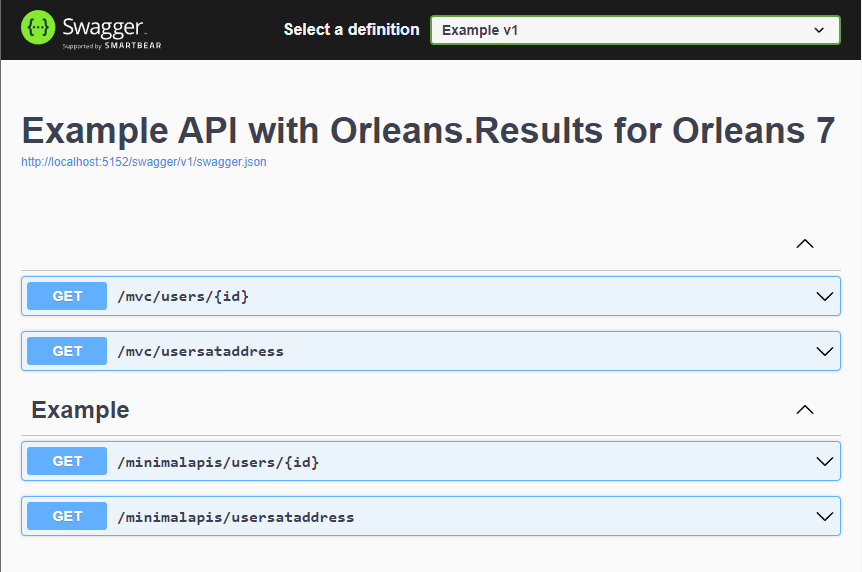
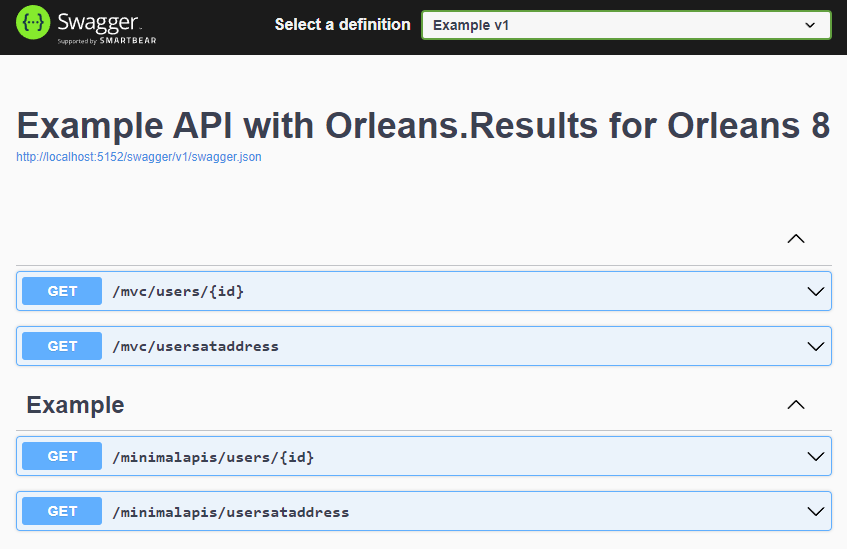
Update tests and texts to Orleans 8, .NET 8 and C# 12

diff --git a/src/Tests/Orleans.Results/Example.cs b/src/Tests/Orleans.Results/Example.cs
@@ -1,4 +1,5 @@
 using System.Collections.Immutable;
+using System.Collections.ObjectModel;
 using System.Text.RegularExpressions;
 using Orleans.Runtime;
 
@@ -11,12 +12,8 @@ public interface ITenant : IGrainWithStringKey
     Task<Result<ImmutableArray<int>>> GetUsersAtAddress(string zip, string nr);
 }
 
-public partial class Tenant : Grain, ITenant
+public partial class Tenant([PersistentState("state")] IPersistentState<Tenant.State> state) : Grain, ITenant
 {
-    readonly IPersistentState<State> state;
-
-    public Tenant([PersistentState("state")] IPersistentState<State> state) => this.state = state;
-
     State S => state.State;
 
     public Task<Result<string>> GetUser(int id) => Task.FromResult<Result<string>>(
@@ -33,23 +30,23 @@ public partial class Tenant : Grain, ITenant
 
     public async Task<Result<ImmutableArray<int>>> GetUsersAtAddress(string zip, string nr)
     {
-        List<Result.Error> errors = new ();
+        Collection<Result.Error> errors = [];
 
         // First check for validation errors - don't perform the operation if there are any.
         if (!ZipCodeRegex().IsMatch(zip)) errors.Add(Errors.InvalidZipCode(zip));
         if (!HouseNrRegex().IsMatch(nr)) errors.Add(Errors.InvalidHouseNr(nr));
-        if (errors.Any()) return errors;
+        if (errors.Count != 0) return errors;
 
         // If there are no validation errors, perform the operation - this may return non-validation errors
         await Task.CompletedTask; // Simulate an operation
         if (!(int.TryParse(nr, out int number) && number % 2 == 1)) errors.Add(Errors.NoUsersAtAddress($"{zip} {nr}"));
-        return errors.Any() ? errors : ImmutableArray.Create(0);
+        return errors.Count != 0 ? errors : ImmutableArray.Create(0);
     }
 
     [GenerateSerializer]
     public class State
     {
-        [Id(0)] public List<string> Users { get; set; } = new(new[] { "John", "Vincent" });
+        [Id(0)] public Collection<string> Users { get; } = new(["John", "Vincent"]);
     }
 
     [GeneratedRegex("^\\d\\d\\d\\d[A-Z]{2}$")]

diff --git a/src/Tests/UnitTests/ResultWithValueTests.cs b/src/Tests/UnitTests/ResultWithValueTests.cs
@@ -1,14 +1,13 @@
 using System.Collections.Immutable;
+using System.Collections.ObjectModel;
 using Example;
 
 namespace Orleans.Results.Tests.UnitTests;
 
 [Collection(TestCluster.Name)]
-public class ResultWithValueTests
+public class ResultWithValueTests(ClusterFixture fixture)
 {
-    readonly TestingHost.TestCluster cluster;
-
-    public ResultWithValueTests(ClusterFixture fixture) => cluster = fixture.Cluster;
+    readonly TestingHost.TestCluster cluster = fixture.Cluster;
 
     ITenant Tenant => cluster.GrainFactory.GetGrain<ITenant>("");
 
@@ -176,7 +175,7 @@ public class ResultWithValueTests
         var error2 = error1 with { Nr = ErrorNr.NoUsersAtAddress, Message = "Error message 2" };
         // With is used to get coverage of the generated set_Code and set_Message
 
-        List<Result.Error> errors = new(new Result.Error[] { error1, error2 });
+        Collection<Result.Error> errors = new([error1, error2]);
         Result<bool> result = errors;
 
         Assert.Equal(errors, result.Errors);

diff --git a/src/Tests/UnitTests/ResultWithoutValueTests.cs b/src/Tests/UnitTests/ResultWithoutValueTests.cs
@@ -1,14 +1,13 @@
 using System.Collections.Immutable;
+using System.Collections.ObjectModel;
 using Example;
 
 namespace Orleans.Results.Tests.UnitTests;
 
 [Collection(TestCluster.Name)]
-public class ResultWithoutValueTests
+public class ResultWithoutValueTests(ClusterFixture fixture)
 {
-    readonly TestingHost.TestCluster cluster;
-
-    public ResultWithoutValueTests(ClusterFixture fixture) => cluster = fixture.Cluster;
+    readonly TestingHost.TestCluster cluster = fixture.Cluster;
 
     ITenant Tenant => cluster.GrainFactory.GetGrain<ITenant>("");
 
@@ -87,7 +86,7 @@ public class ResultWithoutValueTests
         Result.Error error1 = new(ErrorNr.UserNotFound, "Error message 1");
         var error2 = error1 with { Nr = ErrorNr.NoUsersAtAddress, Message = "Error message 2" };
 
-        List<Result.Error> errors = new(new Result.Error[] { error1, error2 });
+        Collection<Result.Error> errors = new([error1, error2]);
         Result result = errors;
 
         Assert.Equal(errors, result.Errors);

diff --git a/src/Tests/Foundation/GlobalSuppressions.cs b/src/Tests/Foundation/GlobalSuppressions.cs
@@ -7,3 +7,5 @@ using System.Diagnostics.CodeAnalysis;
 
 [assembly: SuppressMessage("Naming", "CA1707:Identifiers should not contain underscores", Justification = "https://docs.microsoft.com/en-us/dotnet/core/testing/unit-testing-best-practices#naming-your-tests", Scope = "namespaceanddescendants", Target = "~N:Orleans.Results.Tests.UnitTests")]
 [assembly: SuppressMessage("Style", "IDE0005:Using directive is unnecessary.", Justification = "This project includes shared source files that are also used outside the context of this project's global usings")]
+[assembly: SuppressMessage("Reliability", "CA2007:Consider calling ConfigureAwait on the awaited task", Justification = "Not relevant for ASP.NET Core / Orleans applications")]
+[assembly: SuppressMessage("Naming", "CA1724:Type names should not match namespaces", Justification = "Namespace is generated by Orleans")]

diff --git a/src/Example/Program.cs b/src/Example/Program.cs
@@ -16,7 +16,7 @@ builder.Host.UseOrleans((_, silo) => silo
 builder.Services.AddControllers();
 // Learn more about configuring Swagger/OpenAPI at https://aka.ms/aspnetcore/swashbuckle
 builder.Services.AddEndpointsApiExplorer();
-builder.Services.AddSwaggerGen(options => options.SwaggerDoc("v1", new OpenApiInfo { Title = "Example API with Orleans.Results for Orleans 7" }));
+builder.Services.AddSwaggerGen(options => options.SwaggerDoc("v1", new OpenApiInfo { Title = "Example API with Orleans.Results for Orleans 8" }));
 
 var app = builder.Build();
 

diff --git a/README.md b/README.md
@@ -1,5 +1,5 @@
-# <img src="CSharp-Toolkit-Icon.png" alt="C# Toolkit" width="64px" /> Orleans.Results
-Concise, version-tolerant result pattern implementation for [Microsoft Orleans 7](https://github.com/dotnet/orleans/releases/tag/v7.0.0).
+# <img src="CSharp-Toolkit-Icon.png" alt="C# Toolkit" width="64px" /> Orleans.Results
+Concise, version-tolerant result pattern implementation for [Microsoft Orleans 8](https://github.com/dotnet/orleans/releases/tag/v8.0.0).
 
 Included in [![Nuget (with prereleases)](https://img.shields.io/nuget/vpre/Modern.CSharp.Templates?color=gold&label=NuGet:%20Modern.CSharp.Templates&style=plastic)](https://www.nuget.org/packages/Modern.CSharp.Templates) (see [below](#how-do-i-get-it))
 
@@ -74,10 +74,10 @@ async Task<Result<string>> GetString(int i) => i switch {
     1 => ErrorNr.NotFound,
     2 => (ErrorNr.NotFound, "Not found"),
     3 => new Error(ErrorNr.NotFound, "Not found"),
-    4 => new List<Error>(/*...*/)
+    4 => new Collection<Error>(/*...*/)
 };
 ```
-The implicit convertor only supports multiple errors with `List<Error>`; you can use the public constructor to specify multiple errors with any `IEnumerable<Error>`:
+The implicit convertor only supports multiple errors with `Collection<Error>`; you can use the public constructor to specify multiple errors with any `IEnumerable<Error>`:
 ```csharp
 async Task<Result<string>> GetString()
 {
@@ -88,7 +88,7 @@ async Task<Result<string>> GetString()
 }
 ```
 ## Validation errors
-The `TryAsValidationErrors` method is covenient for returning [RFC7807](https://tools.ietf.org/html/rfc7807) based problem detail responses. This method is designed to be used with [ValidationProblemDetails](https://learn.microsoft.com/en-us/dotnet/api/microsoft.aspnetcore.mvc.validationproblemdetails?view=aspnetcore-7.0) (in MVC):<br>
+The `TryAsValidationErrors` method is covenient for returning [RFC7807](https://tools.ietf.org/html/rfc7807) based problem detail responses. This method is designed to be used with [ValidationProblemDetails](https://learn.microsoft.com/en-us/dotnet/api/microsoft.aspnetcore.mvc.validationproblemdetails?view=aspnetcore-8.0) (in MVC):<br>
 ```csharp
 return result.TryAsValidationErrors(ErrorNr.ValidationError, out var validationErrors)
     ? ValidationProblem(new ValidationProblemDetails(validationErrors))
@@ -100,7 +100,7 @@ return result.TryAsValidationErrors(ErrorNr.ValidationError, out var validationE
         {                                   } r => throw r.UnhandledErrorException()
     };
 ```
-and with [Results.ValidationProblem](https://learn.microsoft.com/en-us/dotnet/api/microsoft.aspnetcore.http.results.validationproblem?view=aspnetcore-7.0) (in minimal API's):
+and with [Results.ValidationProblem](https://learn.microsoft.com/en-us/dotnet/api/microsoft.aspnetcore.http.results.validationproblem?view=aspnetcore-8.0) (in minimal API's):
 ```csharp
 return result.TryAsValidationErrors(ErrorNr.ValidationError, out var validationErrors)
     ? Results.ValidationProblem(validationErrors)
@@ -129,7 +129,7 @@ public enum ErrorNr
 ```csharp
 public async Task<Result<string>> GetUsersAtAddress(string zip, string nr)
 {
-    List<Result.Error> errors = new();
+    Collection<Result.Error> errors = new();
 
     // First check for validation errors - don't perform the operation if there are any.
     if (!ZipRegex().IsMatch(zip)) errors.Add(Errors.InvalidZipCode(zip));
@@ -151,7 +151,7 @@ The performance of `Result<T>` can be optimized similarly by judiciously marking
 The [example in the repo](https://github.com/Applicita/Orleans.Results/tree/main/src/Example) demonstrates using Orleans.Results with both ASP.NET Core minimal API's and MVC:
 ![Orleans Results Example](Orleans-Results-Example.png)
 ## How do I get it?
-1) On the command line, ensure that the [template](https://github.com/Applicita/Modern.CSharp.Templates) is installed<br />(note that below is .NET 7 cli syntax; Orleans 7 requires .NET 7):
+1) On the command line, ensure that the [template](https://github.com/Applicita/Modern.CSharp.Templates) is installed<br />(note that below is .NET 8 cli syntax; Orleans 8 requires .NET 8):
     ```
     dotnet new install Modern.CSharp.Templates
     ```
@@ -176,9 +176,9 @@ The result pattern solves a common problem: it returns an object indicating succ
 
   Using return values also allows you to use [code analysis rule CA1806](https://docs.microsoft.com/en-us/dotnet/fundamentals/code-analysis/quality-rules/ca1806) to alert you where you forgot to check the return value (you can use a *discard* `_ =` to express intent to ignore a return value)
 
-### Orleans 7 introduces version-tolerant, high-performance serialization
+### Orleans 8 supports version-tolerant, high-performance serialization
 However existing Result pattern implementations like [FluentResults](https://github.com/altmann/FluentResults) are not designed for serialization, let alone Orleans serialization. Orleans requires that you annotate your result types - including all types contained within - with the Orleans `[GenerateSerializer]` and `[Id]` attributes, or alternatively that you write additional code to serialize external types.
 
 This means that result objects that can contain contain arbitrary objects as part of the errors (like exceptions) require an open-ended amount of work. Orleans.Results avoids this work by defining an error to be an `enum` nr plus a `string` message.
 
-Orleans.Results adheres to the Orleans 7 serialization guidelines, which enables compatibility with future changes in the result object serialization.
+Orleans.Results adheres to the Orleans 8 serialization guidelines, which enables compatibility with future changes in the result object serialization.
